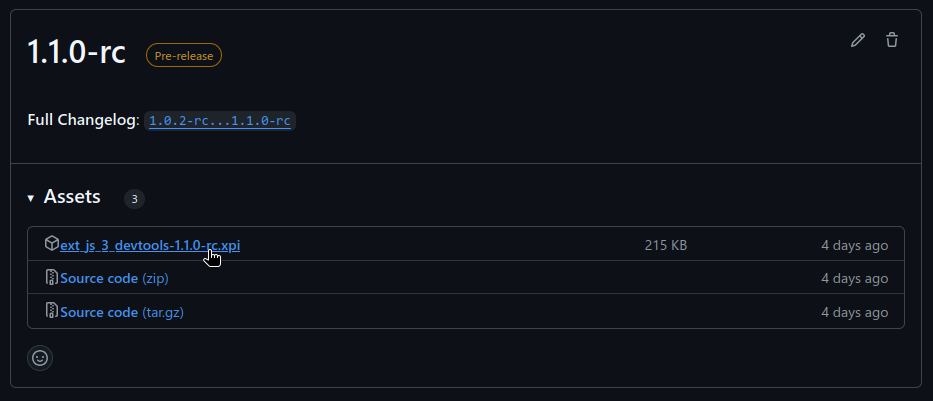
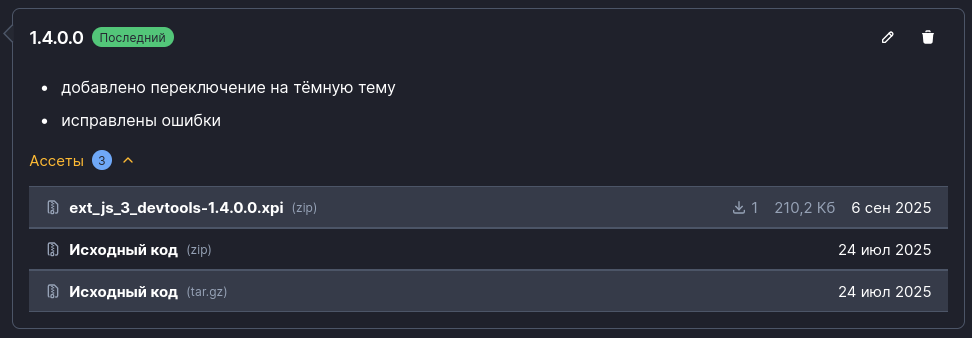
1.x/gitverse - добавлена ветка с описанием для gitverse

Changed region(s): [[0.0, 0.0296, 0.9946, 0.9763], [0.0, 0.0296, 0.4041, 0.3846]]

diff --git a/README.md b/README.md
@@ -53,7 +53,7 @@ https://addons.mozilla.org/firefox/addon/ext-js-3-devtools/
 
 ### 2. Собранное расширение
 
-Со страницы [релизов](https://github.com/3axapp/ext-js-3-devtools/releases) скачать файл `xpi` из `Assets`
+Со страницы [релизов](https://gitverse.ru/3axapp/ext-js-3-devtools/releases) скачать файл `xpi` из `Assets`
 ![releases.png](docs/releases.png)
 
 ### 3. Собрать и установить как временное расширение
@@ -61,7 +61,7 @@ https://addons.mozilla.org/firefox/addon/ext-js-3-devtools/
 Сборка
 
 ```shell
-git clone git@github.com:3axapp/ext-js-3-devtools.git
+git clone https://gitverse.ru/3axapp/ext-js-3-devtools.git
 cd ext-js-3-devtools
 npm install
 make
